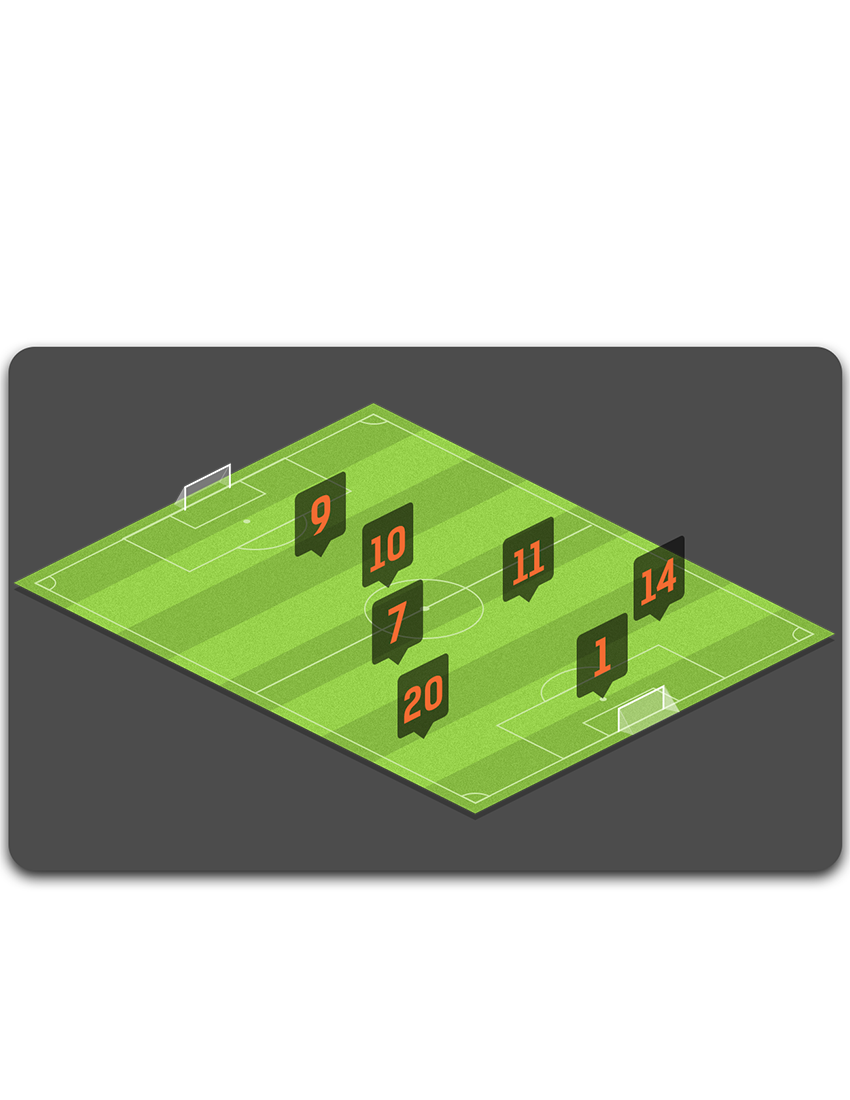
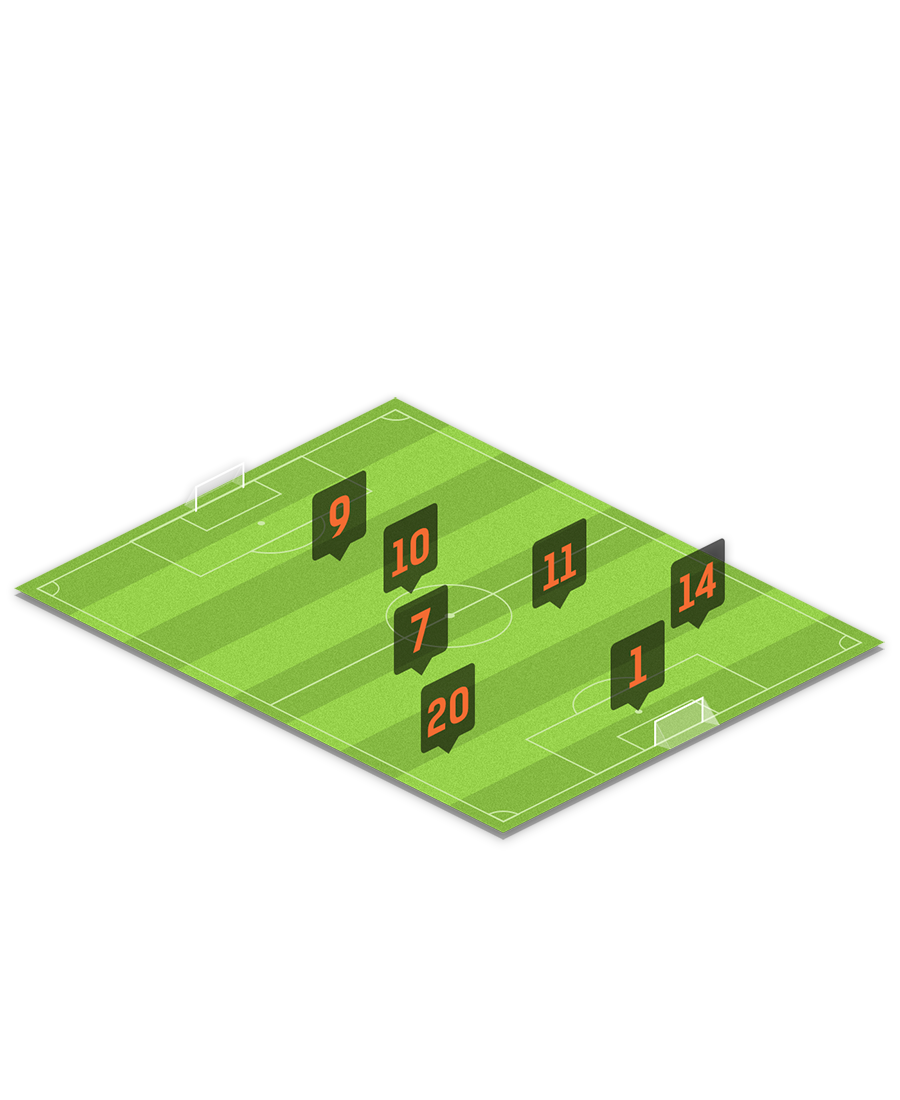
pxx
pxx

diff --git a/sse.html b/sse.html
@@ -11,64 +11,6 @@
 <script type="text/javascript">
 $(document).ready(function(){
 
-$('#img1').rotate({angle:45});
-
-$("#img2").rotate({ 
-   bind: 
-     { 
-        mouseover : function() { 
-            $(this).rotate({animateTo:180});
-        },
-        mouseout : function() { 
-            $(this).rotate({animateTo:0});
-        }
-     } 
-   
-});
-
-
-var angle = 0;
-setInterval(function(){
-      angle+=3;
-     $("#img3").rotate(angle);
-},50);
-
-
-var rotation = function (){
-   $("#img4").rotate({
-      angle:0, 
-      animateTo:360, 
-      callback: rotation
-   });
-}
-rotation();
-
-
-
-var rotation2 = function (){
-   $("#img5").rotate({
-      angle:0, 
-      animateTo:360, 
-      callback: rotation2,
-      easing: function (x,t,b,c,d){        // t: current time, b: begInnIng value, c: change In value, d: duration
-          return c*(t/d)+b;
-      }
-   });
-}
-rotation2();
-
-
-$("#img6").rotate({ 
-   bind: 
-     { 
-        click: function(){
-            $(this).rotate({ angle:0,animateTo:180,easing: $.easing.easeInOutExpo })
-        }
-     } 
-   
-});
-
-
 var value2 = 0
 $(".extend").rotate({ 
    bind: 
@@ -181,6 +123,7 @@ $(".extend").rotate({
       <b>体重</b>: 65 kg<br />
       <b>位置</b>: 边锋，边后卫</div>
   </div>
+  <div class="popblack"></div>
   <div class="pop"><img src="images/closebut.png"></div>
 </div>
 </body>

diff --git a/css/sse.css b/css/sse.css
@@ -14,13 +14,23 @@ ul {
 	display: none;
 	position: absolute;
 	z-index: 200;
-	width: 100px;
+	width: 150px;
 	height: 740px;
 	padding: 360px 0 0 750px;
 	background-image:url(../images/pitch.png);
 	top: 0;
 	left: 50%;
-	margin-left: -425px; 
+	margin-left: -450px; 
+}
+.popblack {
+	display: none;
+	position: absolute;
+	z-index: 100;
+	width: 100%;
+	height: 1700px;
+	top: 0;
+	left: 0;
+	background: rgba(0,0,0,0.55);
 }
 .pop img {
 	cursor: pointer;

diff --git a/js/ssefunction.js b/js/ssefunction.js
@@ -5,11 +5,13 @@ $(".extend").click(function(){
   });
 
 $(".subpitch").click(function(){
+	$(".popblack").css("display","block");
     $(".pop").css("display","block");
     
   });
 
 $(".pop img").click(function(){
+	$(".popblack").css("display","none");
     $(".pop").css("display","none");
     
   });
